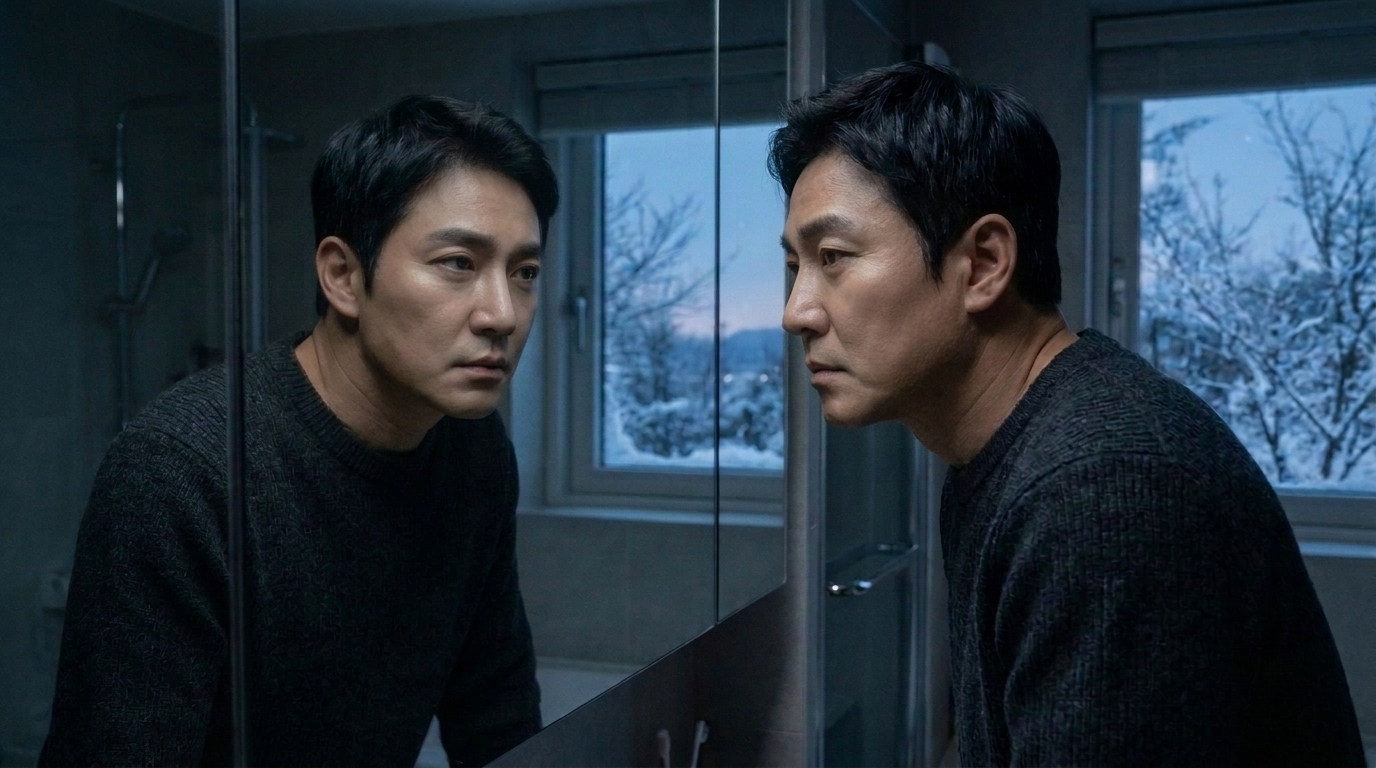
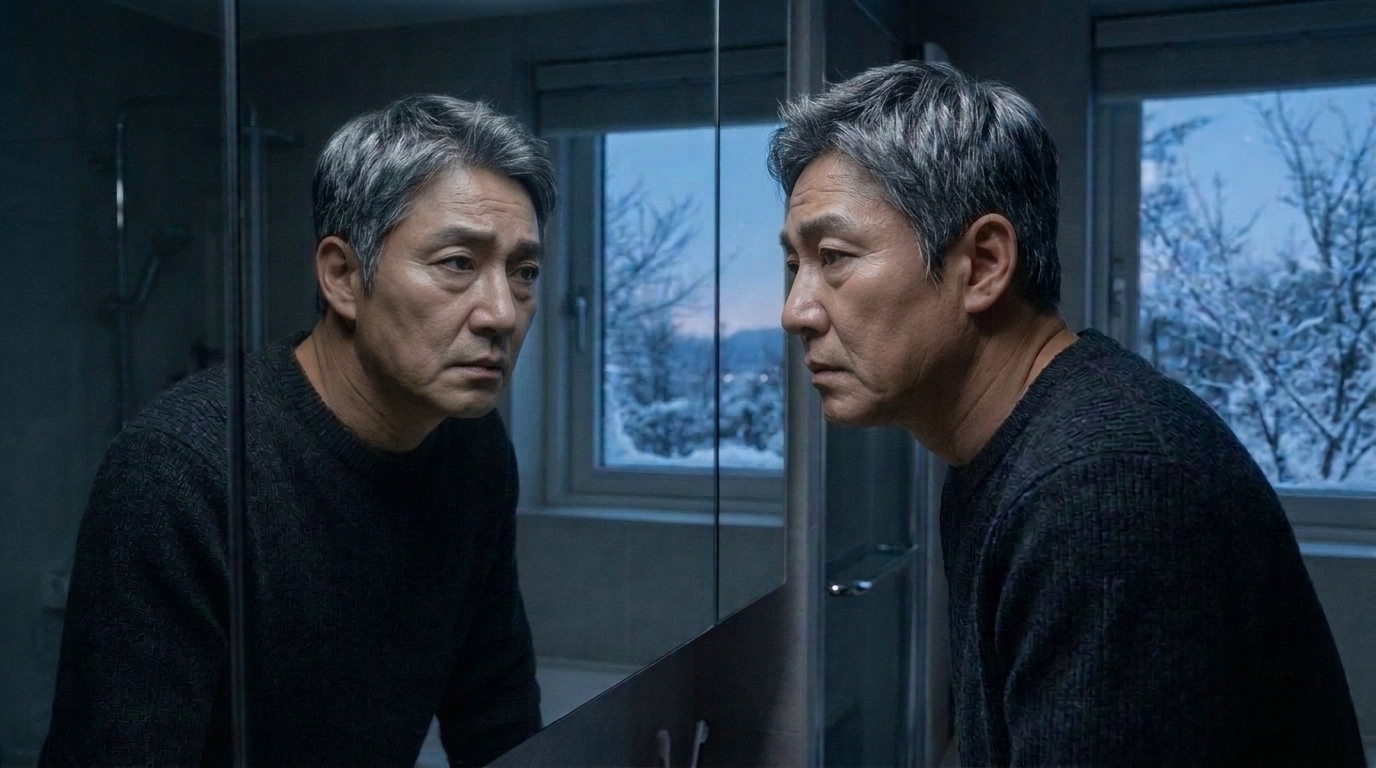
Update prostate Card 09 bathroom male model to handsome 50s appearance

diff --git a/homepage/wordpress-prostate.html b/homepage/wordpress-prostate.html
@@ -6265,9 +6265,9 @@
         <article class="project-details-item is-motion-plate" data-fullscreen>
           <span class="tiny-card-num-badge">09</span>
           <div class="plate-media-inner">
-            <div class="motion-video-stage" data-frames="https://raw.githubusercontent.com/ajwei0508-cpu/bareun-homepage/main/homepage/prostate_minimal_card9_trouble_1_nocturia.jpg?v=c9v6|https://raw.githubusercontent.com/ajwei0508-cpu/bareun-homepage/main/homepage/prostate_minimal_card9_trouble_2_driving.jpg?v=c9v6|https://raw.githubusercontent.com/ajwei0508-cpu/bareun-homepage/main/homepage/prostate_minimal_card9_trouble_3_pelvicpain.jpg?v=c9v6" data-duration="6.6">
-              <div class="motion-frame-layer frame-layer-a" style="background-image: url('https://raw.githubusercontent.com/ajwei0508-cpu/bareun-homepage/main/homepage/prostate_minimal_card9_trouble_1_nocturia.jpg?v=c9v6');"></div>
-              <div class="motion-frame-layer frame-layer-b" style="background-image: url('https://raw.githubusercontent.com/ajwei0508-cpu/bareun-homepage/main/homepage/prostate_minimal_card9_trouble_2_driving.jpg?v=c9v6'); opacity: 0;"></div>
+            <div class="motion-video-stage" data-frames="https://raw.githubusercontent.com/ajwei0508-cpu/bareun-homepage/main/homepage/prostate_minimal_card9_trouble_1_nocturia.jpg?v=c9v7|https://raw.githubusercontent.com/ajwei0508-cpu/bareun-homepage/main/homepage/prostate_minimal_card9_trouble_2_driving.jpg?v=c9v7|https://raw.githubusercontent.com/ajwei0508-cpu/bareun-homepage/main/homepage/prostate_minimal_card9_trouble_3_pelvicpain.jpg?v=c9v7" data-duration="6.6">
+              <div class="motion-frame-layer frame-layer-a" style="background-image: url('https://raw.githubusercontent.com/ajwei0508-cpu/bareun-homepage/main/homepage/prostate_minimal_card9_trouble_1_nocturia.jpg?v=c9v7');"></div>
+              <div class="motion-frame-layer frame-layer-b" style="background-image: url('https://raw.githubusercontent.com/ajwei0508-cpu/bareun-homepage/main/homepage/prostate_minimal_card9_trouble_2_driving.jpg?v=c9v7'); opacity: 0;"></div>
               <canvas class="plate-fx-canvas" data-fx="sunlight-bokeh"></canvas>
               <div class="motion-progress-track"><div class="motion-progress-fill"></div></div>
             </div>

diff --git a/homepage/prostate.html b/homepage/prostate.html
@@ -6248,9 +6248,9 @@
         <article class="project-details-item is-motion-plate" data-fullscreen>
           <span class="tiny-card-num-badge">09</span>
           <div class="plate-media-inner">
-            <div class="motion-video-stage" data-frames="prostate_minimal_card9_trouble_1_nocturia.jpg?v=c9v6|prostate_minimal_card9_trouble_2_driving.jpg?v=c9v6|prostate_minimal_card9_trouble_3_pelvicpain.jpg?v=c9v6" data-duration="6.6">
-              <div class="motion-frame-layer frame-layer-a" style="background-image: url('prostate_minimal_card9_trouble_1_nocturia.jpg?v=c9v6');"></div>
-              <div class="motion-frame-layer frame-layer-b" style="background-image: url('prostate_minimal_card9_trouble_2_driving.jpg?v=c9v6'); opacity: 0;"></div>
+            <div class="motion-video-stage" data-frames="prostate_minimal_card9_trouble_1_nocturia.jpg?v=c9v7|prostate_minimal_card9_trouble_2_driving.jpg?v=c9v7|prostate_minimal_card9_trouble_3_pelvicpain.jpg?v=c9v7" data-duration="6.6">
+              <div class="motion-frame-layer frame-layer-a" style="background-image: url('prostate_minimal_card9_trouble_1_nocturia.jpg?v=c9v7');"></div>
+              <div class="motion-frame-layer frame-layer-b" style="background-image: url('prostate_minimal_card9_trouble_2_driving.jpg?v=c9v7'); opacity: 0;"></div>
               <canvas class="plate-fx-canvas" data-fx="sunlight-bokeh"></canvas>
               <div class="motion-progress-track"><div class="motion-progress-fill"></div></div>
             </div>

diff --git a/homepage/build-story-detail-pages.js b/homepage/build-story-detail-pages.js
@@ -1558,9 +1558,9 @@ const PAGES = [
         sub: '새벽마다 서너 번 깨고 · 운전·회의 중 급한 빈뇨 · 묵직한 회음부 통증과 활력 저하 누구에게 말하기도 힘들어 가장 답답하고 곤란한 순간입니다.',
         caption: '[남성 갱년기 & 배뇨 장애로 곤란한 순간] 무력해진 활력 · 운전·회의 중 급한 빈뇨 · 새벽 야간뇨로 가장 답답하고 곤란한 순간입니다.',
         frames: [
-          'prostate_minimal_card9_trouble_1_nocturia.jpg?v=c9v6',
-          'prostate_minimal_card9_trouble_2_driving.jpg?v=c9v6',
-          'prostate_minimal_card9_trouble_3_pelvicpain.jpg?v=c9v6'
+          'prostate_minimal_card9_trouble_1_nocturia.jpg?v=c9v7',
+          'prostate_minimal_card9_trouble_2_driving.jpg?v=c9v7',
+          'prostate_minimal_card9_trouble_3_pelvicpain.jpg?v=c9v7'
         ],
         fx: 'sunlight-bokeh',
         durationSec: 6.6
